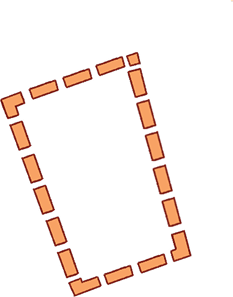
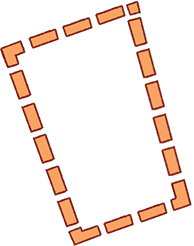
0525 添加碰杯特效

Changed region(s): [[0.0, 0.0, 0.9897, 1.0], [0.9897, 0.0, 1.0, 0.0285]]

diff --git a/game.js b/game.js
@@ -12,6 +12,7 @@ const ACT3_STATES = {
 const DESIGN_WIDTH = 1920;
 const DESIGN_HEIGHT = 920;
 const SHOW_DEBUG_LABELS = false;
+const SELECTED_DRINK_SCALE = 1.3;
 
 let act3Choices = null;
 let act3Layouts = null;
@@ -22,6 +23,8 @@ let dragPayload = null;
 let activeFoodDrag = null;
 let selectedFoods = [];
 const usedFoodIds = new Set();
+let selectedDrinkId = null;
+let isDrinkChoiceLocked = false;
 let playerChoices = [];
 let bubbleTimers = [];
 let objectLayer = null;
@@ -740,6 +743,11 @@ function bindDragSource(element, type, id) {
       return;
     }
 
+    if (type === "drink" && isDrinkChoiceLocked) {
+      event.preventDefault();
+      return;
+    }
+
     if (type === "food" && currentState !== ACT3_STATES.FOOD_CHOICE) {
       event.preventDefault();
       return;
@@ -947,6 +955,10 @@ function canAcceptDrop(acceptedType) {
     return false;
   }
 
+  if (acceptedType === "drink" && isDrinkChoiceLocked) {
+    return false;
+  }
+
   return !isStateLocked && dragPayload && dragPayload.type === acceptedType;
 }
 
@@ -1016,7 +1028,7 @@ function handleDrinkDrop(targetElement) {
   const drink = act3Choices.drinks.find((item) => item.id === dragPayload.id);
   const drinkButton = getObjectElement(drink.id);
 
-  if (!drink || !drinkButton) {
+  if (!drink || !drinkButton || isDrinkChoiceLocked) {
     return;
   }
 
@@ -1033,14 +1045,90 @@ function handleDrinkDrop(targetElement) {
   };
 
   isStateLocked = true;
+  isDrinkChoiceLocked = true;
+  selectedDrinkId = drink.id;
   playerChoices.push(choice);
-  targetElement.classList.add("filled");
-  targetElement.textContent = `${drink.name} 碰杯`;
-  drinkButton.classList.add("is-selected");
-  drinkButton.draggable = false;
+  placeSelectedDrinkInCup(drinkButton, targetElement, drink);
+  lockDrinkDragSources();
+  playCheersAnimation(drinkButton);
   console.log("Act 3 饮品选择：", choice);
   console.log("Act 3 playerChoices：", playerChoices);
   console.log("第三幕完成，进入下一幕占位。");
+}
+
+function placeSelectedDrinkInCup(drinkButton, targetElement, drink) {
+  const cheersZone = targetElement.closest('[data-object-id="act3_s02_targetzone_cheers"]');
+
+  if (!cheersZone) {
+    return;
+  }
+
+  const cheersZoneRect = cheersZone.getBoundingClientRect();
+  const targetRect = targetElement.getBoundingClientRect();
+  const drinkRect = drinkButton.getBoundingClientRect();
+  const localScale = cheersZoneRect.width / getLayoutPixelWidth(cheersZone) || 1;
+  const targetCenterX = (targetRect.left - cheersZoneRect.left + targetRect.width / 2) / localScale;
+  const targetCenterY = (targetRect.top - cheersZoneRect.top + targetRect.height / 2) / localScale;
+  const selectedDrinkWidth = (drinkRect.width / localScale) * SELECTED_DRINK_SCALE;
+  const selectedDrinkHeight = (drinkRect.height / localScale) * SELECTED_DRINK_SCALE;
+  const finalX = targetCenterX - selectedDrinkWidth / 2;
+  const finalY = targetCenterY - selectedDrinkHeight / 2;
+
+  targetElement.classList.add("filled");
+  targetElement.classList.add("is-used");
+  drinkButton.classList.add("is-selected");
+  drinkButton.classList.add("is-selected-drink");
+  drinkButton.classList.remove("interactive-option");
+  drinkButton.classList.remove("is-dragging");
+  drinkButton.draggable = false;
+  drinkButton.dataset.selectedDrinkId = drink.id;
+
+  drinkButton.style.left = `${finalX}px`;
+  drinkButton.style.top = `${finalY}px`;
+  drinkButton.style.width = `${selectedDrinkWidth}px`;
+  drinkButton.style.height = `${selectedDrinkHeight}px`;
+  drinkButton.style.zIndex = String((Number(targetElement.style.zIndex) || 1) + 2);
+  drinkButton.style.transform = "none";
+  drinkButton.style.transformOrigin = "center center";
+  cheersZone.appendChild(drinkButton);
+}
+
+function getLayoutPixelWidth(element) {
+  return element.offsetWidth || element.getBoundingClientRect().width;
+}
+
+function lockDrinkDragSources() {
+  objectLayer.querySelectorAll('.act3-drink[data-type="drink"]').forEach((drinkElement) => {
+    drinkElement.draggable = false;
+    drinkElement.classList.add("is-drink-drag-locked");
+    drinkElement.classList.remove("interactive-option");
+    drinkElement.classList.remove("is-dragging");
+  });
+}
+
+function playCheersAnimation(selectedDrinkElement) {
+  const cheersZone = selectedDrinkElement.closest('[data-object-id="act3_s02_targetzone_cheers"]');
+  const otherCup = cheersZone?.querySelector('[data-object-id="act3_s02_otherCup"]');
+
+  if (!cheersZone || !otherCup) {
+    return;
+  }
+
+  const spark = document.createElement("span");
+  spark.className = "cheers-spark";
+  spark.textContent = "✦";
+  cheersZone.appendChild(spark);
+
+  otherCup.classList.add("cheers-left");
+  selectedDrinkElement.classList.add("cheers-right");
+  cheersZone.classList.add("is-cheering");
+
+  window.setTimeout(() => {
+    otherCup.classList.remove("cheers-left");
+    selectedDrinkElement.classList.remove("cheers-right");
+    cheersZone.classList.remove("is-cheering");
+    spark.remove();
+  }, 820);
 }
 
 function getPotCount(targetId) {

diff --git a/style.css b/style.css
@@ -10,6 +10,9 @@
   --option-hover-duration: 180ms;
   --option-sparkle-color: #ffd84d;
   --option-sparkle-size: 10px;
+  --cheers-move-x: 28px;
+  --cheers-rotate: 8deg;
+  --cheers-bounce-duration: 760ms;
 }
 
 html,
@@ -810,6 +813,13 @@ button:disabled {
   background: #f6d89f;
 }
 
+.act3-cup.is-used,
+.act3-child-object.is-used[data-id="act3_s02_target_emptyCup"] {
+  opacity: 0 !important;
+  visibility: hidden !important;
+  pointer-events: none !important;
+}
+
 .act3-drink-table {
   justify-content: flex-start;
   gap: 14px;
@@ -824,6 +834,90 @@ button:disabled {
 .act3-drink {
   width: 100%;
   min-height: 104px;
+}
+
+.act3-drink.is-selected-drink {
+  pointer-events: none;
+  cursor: default;
+}
+
+.act3-drink.is-drink-drag-locked {
+  cursor: default;
+}
+
+.act3-cup.cheers-left .asset-image {
+  animation: cheers-left var(--cheers-bounce-duration) ease-in-out;
+  transform-origin: center center;
+}
+
+.act3-drink.cheers-right .asset-image {
+  animation: cheers-right var(--cheers-bounce-duration) ease-in-out;
+  transform-origin: center center;
+}
+
+.cheers-spark {
+  position: absolute;
+  left: 55%;
+  top: 42%;
+  z-index: 20;
+  color: var(--option-sparkle-color);
+  font-size: 28px;
+  line-height: 1;
+  pointer-events: none;
+  animation: cheers-spark 680ms ease-out both;
+}
+
+@keyframes cheers-left {
+  0% {
+    transform: translateX(0) rotate(0deg) scale(1);
+  }
+
+  45% {
+    transform: translateX(var(--cheers-move-x)) rotate(var(--cheers-rotate)) scale(1.04);
+  }
+
+  65% {
+    transform: translateX(calc(var(--cheers-move-x) - 8px)) rotate(calc(var(--cheers-rotate) * -0.4)) scale(1.02);
+  }
+
+  100% {
+    transform: translateX(0) rotate(0deg) scale(1);
+  }
+}
+
+@keyframes cheers-right {
+  0% {
+    transform: translateX(0) rotate(0deg) scale(1);
+  }
+
+  45% {
+    transform: translateX(calc(-1 * var(--cheers-move-x))) rotate(calc(-1 * var(--cheers-rotate))) scale(1.04);
+  }
+
+  65% {
+    transform: translateX(calc(-1 * var(--cheers-move-x) + 8px)) rotate(calc(var(--cheers-rotate) * 0.4)) scale(1.02);
+  }
+
+  100% {
+    transform: translateX(0) rotate(0deg) scale(1);
+  }
+}
+
+@keyframes cheers-spark {
+  0% {
+    opacity: 0;
+    transform: translate(-50%, -50%) scale(0.4) rotate(0deg);
+  }
+
+  42% {
+    opacity: 1;
+    transform: translate(-50%, -50%) scale(1.25) rotate(18deg);
+  }
+
+  100% {
+    opacity: 0;
+    transform: translate(-50%, -72%) scale(0.8) rotate(36deg);
+  }
 }
 
 .act3-floating-bubble {
